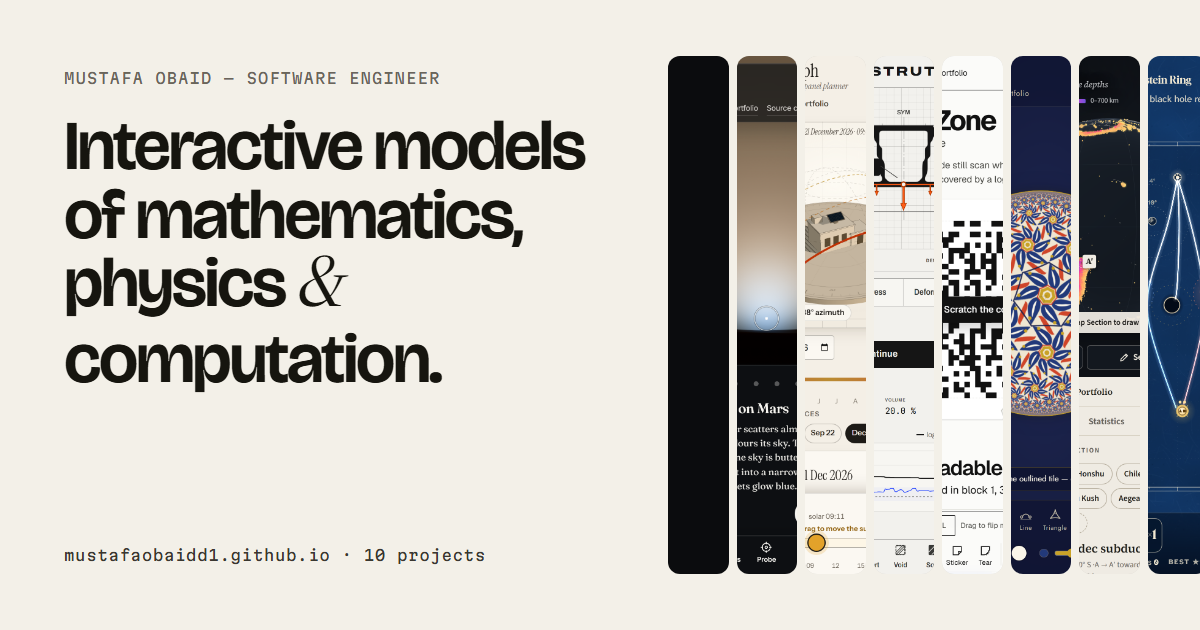
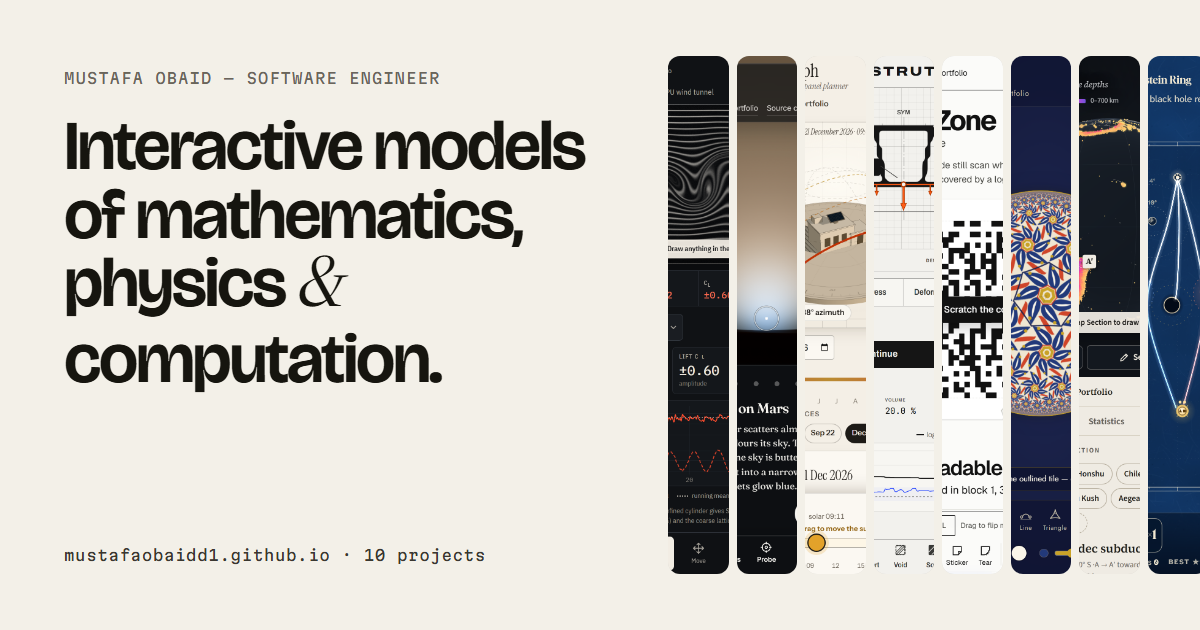
Portfolio: Kármán case study, final previews and social card

diff --git a/src/data/projects.ts b/src/data/projects.ts
@@ -56,10 +56,27 @@ export const projects: Project[] = [
     tech: ['TypeScript', 'WebGPU', 'WGSL', 'Web Workers'],
     skills: ['Computational fluid dynamics', 'GPU compute', 'Numerical validation'],
     accent: '#ff4d2e',
-    features: [],
-    howItWorks: '',
-    challenge: '',
-    validation: [],
+    features: [
+      'Draw any shape into the flow, or drop in a cylinder, NACA airfoil, plate, car or building — every preset stays editable.',
+      'Smoke, speed, vorticity and pressure views, with tracer particles and a probe for local velocity and pressure.',
+      'Live drag and lift coefficients for each body, a running mean over whole shedding periods, and the Strouhal number.',
+      'Benchmark mode runs the Schäfer–Turek cylinder test and compares the result with the reference values.',
+      'Runs on the GPU with WebGPU, or on the CPU in a Web Worker when WebGPU is not available.',
+    ],
+    howItWorks:
+      'A D2Q9 lattice-Boltzmann solver with two-relaxation-time collisions runs as WGSL compute shaders: each cell holds nine particle populations that collide and stream every step. Bodies use interpolated bounce-back, and forces come from momentum exchange, summed on the GPU and read back every few frames.',
+    challenge:
+      'Matching a CPU reference implementation on the GPU to float32 round-off, keeping the flow stable at low viscosity, and measuring forces precisely enough to compare with a research benchmark — in a browser tab.',
+    validation: [
+      {
+        label: 'Schäfer–Turek 2D-1 (Re 20), drag at 40 cells per diameter',
+        value: '5.6094 vs 5.5795 (+0.35 %)',
+      },
+      { label: '2D-2 (Re 100), Strouhal number', value: '0.3016 (range 0.295–0.305)' },
+      { label: '2D-2 maximum lift coefficient', value: '0.9967 (range 0.99–1.01)' },
+      { label: 'GPU vs CPU after 400 steps', value: 'max velocity difference 3 × 10⁻⁷' },
+      { label: 'Poiseuille flow vs the analytic profile', value: 'L2 error ≈ 10⁻¹⁴' },
+    ],
     kind: 'interactive simulation',
   },
   {
